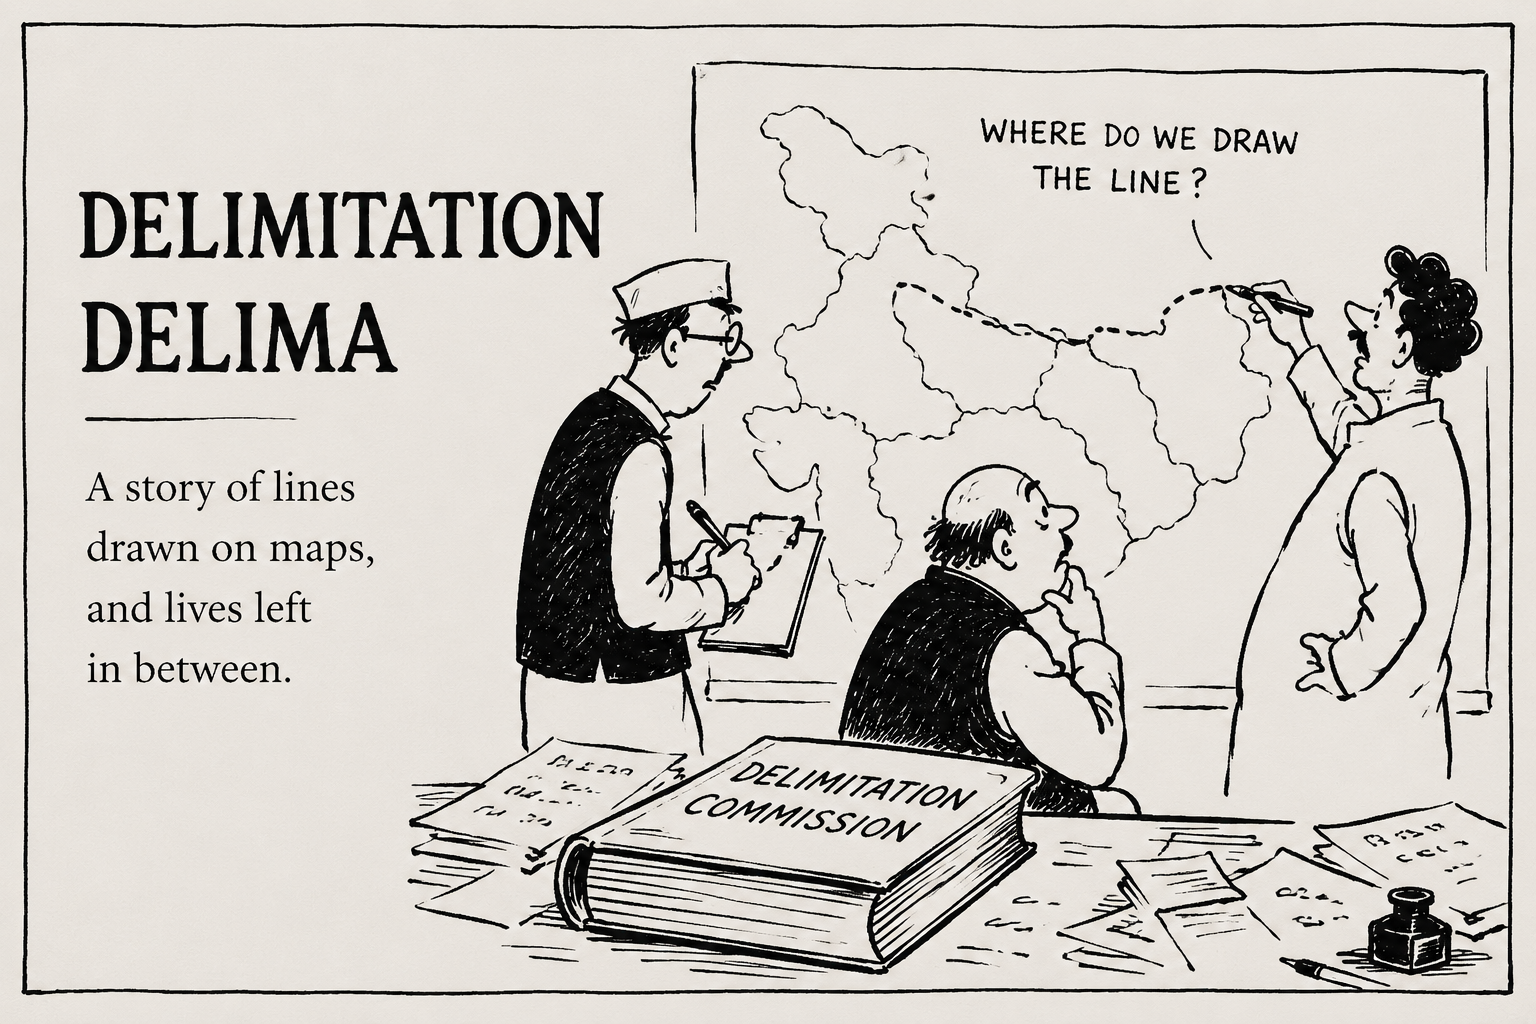
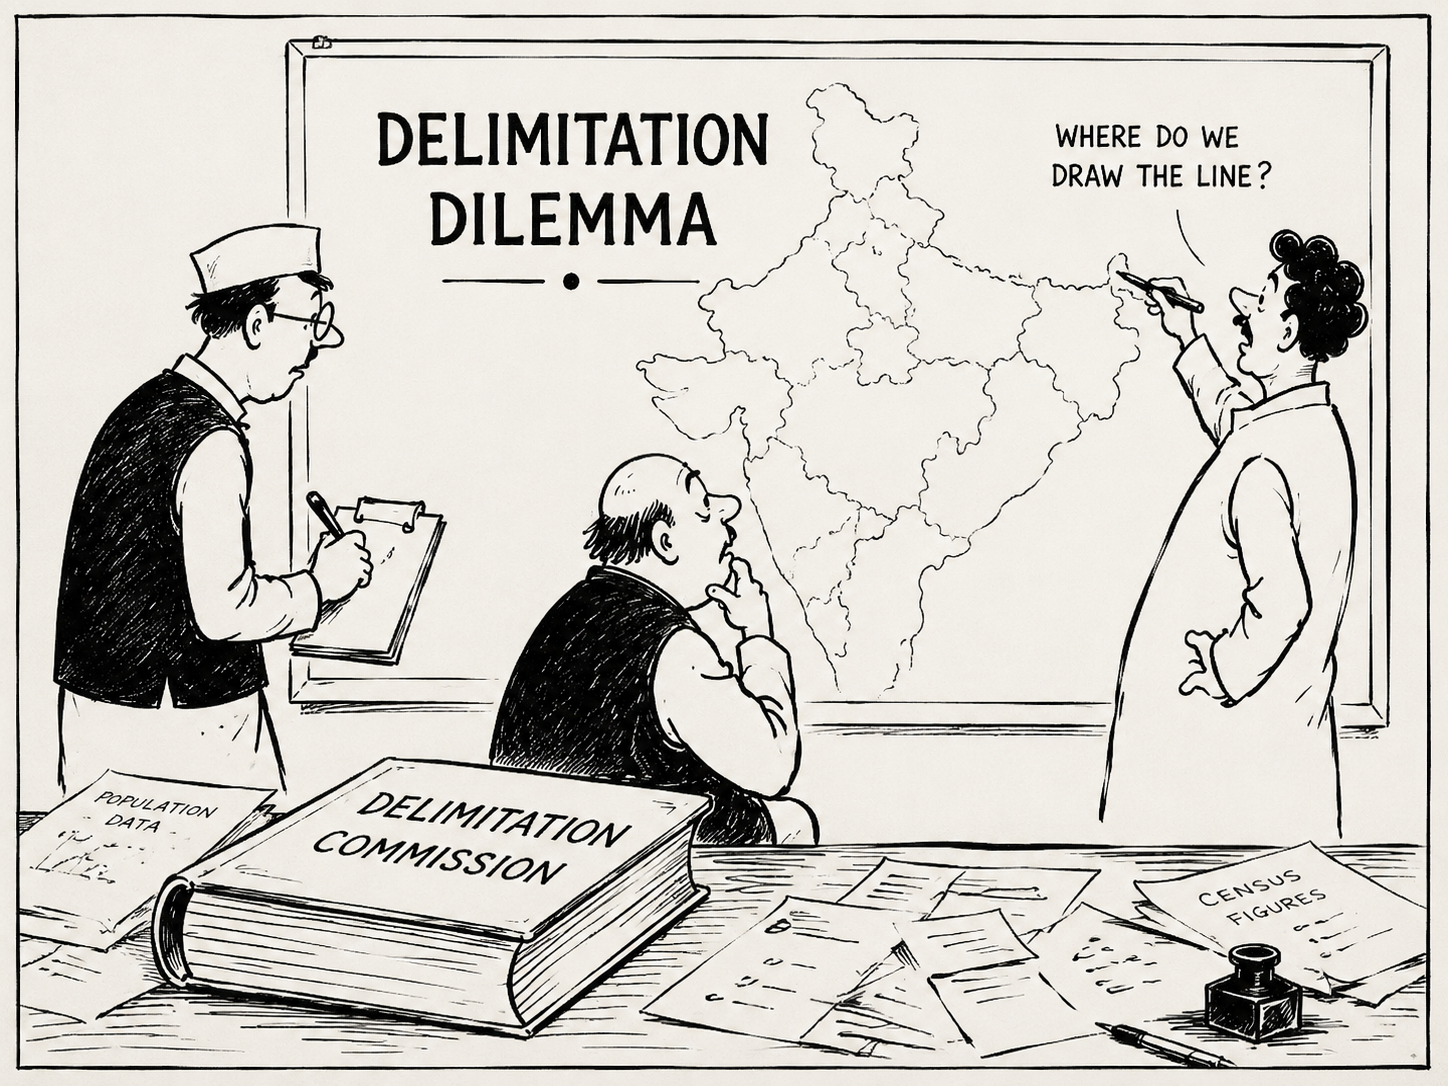
Fix image sizing and delimitation chart layout

diff --git a/src/routes/+page.svelte b/src/routes/+page.svelte
@@ -444,7 +444,8 @@
         width: 100%;
         aspect-ratio: 1408 / 1024;
         background-color: #f0ede6;
-        background-size: cover;
+        background-size: contain;
+        background-repeat: no-repeat;
         background-position: center;
         margin-bottom: 1.5rem;
         border-radius: 4px;

diff --git a/src/lib/delimitation.js b/src/lib/delimitation.js
@@ -30,7 +30,7 @@ var chartLayer;
 var chartNodes;
 var header;
 var yScale, barScale;
-var col1 = width * 0.38, col2 = width * 0.55, col3 = width * 0.70, col4 = width * 0.85;
+var col1 = width * 0.38, col2 = width * 0.50, col3 = width * 0.62, col4 = width * 0.82;
 
 var currentColorMetric = "Default";
 

diff --git a/static/static/js/d3.geo.projection.min.js b/static/static/js/d3.geo.projection.min.js
@@ -1,0 +1,2 @@
+!function(){function t(t,a){return{type:"Feature",id:t.id,properties:t.properties,geometry:n(t.geometry,a)}}function n(t,a){if(!t)return null;if("GeometryCollection"===t.type)return{type:"GeometryCollection",geometries:object.geometries.map(function(t){return n(t,a)})};if(!la.hasOwnProperty(t.type))return null;var r=la[t.type];return d3.geo.stream(t,a(r)),r.result()}function a(){}function r(t){if((n=t.length)<4)return!1;for(var n,a=0,r=t[n-1][1]*t[0][0]-t[n-1][0]*t[0][1];++a<n;)r+=t[a-1][1]*t[a][0]-t[a-1][0]*t[a][1];return 0>=r}function e(t,n){for(var a=n[0],r=n[1],e=!1,o=0,i=t.length,h=i-1;i>o;h=o++){var u=t[o],M=u[0],s=u[1],c=t[h],f=c[0],v=c[1];s>r^v>r&&(f-M)*(r-s)/(v-s)+M>a&&(e=!e)}return e}function o(t){return t?t/Math.sin(t):1}function i(t){return t>0?1:0>t?-1:0}function h(t){return t>1?pa:-1>t?-pa:Math.asin(t)}function u(t){return t>1?0:-1>t?ba:Math.acos(t)}function M(t){return t>0?Math.sqrt(t):0}function s(t){function n(t,n){var a=Math.cos(t),e=Math.cos(n),o=Math.sin(n),i=e*a,h=-((1-i?Math.log(.5*(1+i))/(1-i):-.5)+r/(1+i));return[h*e*Math.sin(t),h*o]}var a=Math.tan(.5*t),r=2*Math.log(Math.cos(.5*t))/(a*a);return n.invert=function(n,a){var e,o=Math.sqrt(n*n+a*a),i=t*-.5,u=50;if(!o)return[0,0];do{var M=.5*i,s=Math.cos(M),c=Math.sin(M),f=Math.tan(M),v=Math.log(1/s);i-=e=(2/f*v-r*f-o)/(-v/(c*c)+1-r/(2*s*s))}while(Math.abs(e)>ga&&--u>0);var l=Math.sin(i);return[Math.atan2(n*l,o*Math.cos(i)),h(a*l/o)]},n}function c(){var t=pa,n=Sa(s),a=n(t);return a.radius=function(a){return arguments.length?n(t=a*ba/180):180*(t/ba)},a}function f(t,n){var a=Math.cos(n),r=o(u(a*Math.cos(t/=2)));return[2*a*Math.sin(t)*r,Math.sin(n)*r]}function v(t){function n(t,n){var h=Math.cos(n),u=Math.cos(t/=2);return[(1+h)*Math.sin(t),(e*n>-Math.atan2(u,o)-.001?0:10*-e)+i+Math.sin(n)*r-(1+h)*a*u]}var a=Math.sin(t),r=Math.cos(t),e=t>0?1:-1,o=Math.tan(e*t),i=(1+a-r)/2;return n.invert=function(t,n){var h=0,u=0,M=50;do{var s=Math.cos(h),c=Math.sin(h),f=Math.cos(u),v=Math.sin(u),l=1+f,g=l*c-t,d=i+v*r-l*a*s-n,b=.5*l*s,p=-c*v,w=.5*a*l*c,q=r*f+a*s*v,m=p*w-q*b,y=.5*(d*p-g*q)/m,S=(g*w-d*b)/m;h-=y,u-=S}while((Math.abs(y)>ga||Math.abs(S)>ga)&&--M>0);return e*u>-Math.atan2(Math.cos(h),o)-.001?[2*h,u]:null},n}function l(){var t=ba/9,n=t>0?1:-1,a=Math.tan(n*t),r=Sa(v),e=r(t),o=e.stream;return e.parallel=function(e){return arguments.length?(a=Math.tan((n=(t=e*ba/180)>0?1:-1)*t),r(t)):180*(t/ba)},e.stream=function(r){var i=e.rotate(),h=o(r),u=(e.rotate([0,0]),o(r));return e.rotate(i),h.sphere=function(){u.polygonStart(),u.lineStart();for(var r=-180*n;180>n*r;r+=90*n)u.point(r,90*n);for(;n*(r-=t)>=-180;)u.point(r,n*-Math.atan2(Math.cos(r*qa/2),a)*ma);u.lineEnd(),u.polygonEnd()},h},e}function g(t){return t=Math.exp(2*t),(t-1)/(t+1)}function d(t){return.5*(Math.exp(t)-Math.exp(-t))}function b(t){return.5*(Math.exp(t)+Math.exp(-t))}function p(t){return Math.log(t+M(t*t+1))}function w(t){return Math.log(t+M(t*t-1))}function q(t,n){var a=Math.tan(n/2),r=M(1-a*a),e=1+r*Math.cos(t/=2),o=Math.sin(t)*r/e,i=a/e,h=o*o,u=i*i;return[4/3*o*(3+h-3*u),4/3*i*(3+3*h-u)]}function m(t,n){var a=Math.abs(n);return ba/4>a?[t,Math.log(Math.tan(ba/4+n/2))]:[t*Math.cos(a)*(2*Math.SQRT2-1/Math.sin(a)),i(n)*(2*Math.SQRT2*(a-ba/4)-Math.log(Math.tan(a/2)))]}function y(t){function n(t,n){var r=Ra(t,n);if(Math.abs(t)>pa){var e=Math.atan2(r[1],r[0]),o=Math.sqrt(r[0]*r[0]+r[1]*r[1]),i=a*Math.round((e-pa)/a)+pa,u=Math.atan2(Math.sin(e-=i),2-Math.cos(e));e=i+h(ba/o*Math.sin(u))-u,r[0]=o*Math.cos(e),r[1]=o*Math.sin(e)}return r}var a=2*ba/t;return n.invert=function(t,n){var r=Math.sqrt(t*t+n*n);if(r>pa){var e=Math.atan2(n,t),o=a*Math.round((e-pa)/a)+pa,i=e>o?-1:1,h=r*Math.cos(o-e),u=1/Math.tan(i*Math.acos((h-ba)/Math.sqrt(ba*(ba-2*h)+r*r)));e=o+2*Math.atan((u+i*Math.sqrt(u*u-3))/3),t=r*Math.cos(e),n=r*Math.sin(e)}return Ra.invert(t,n)},n}function S(){var t=5,n=Sa(y),a=n(t),r=a.stream,e=.01,o=-Math.cos(e*qa),i=Math.sin(e*qa);return a.lobes=function(a){return arguments.length?n(t=+a):t},a.stream=function(n){var u=a.rotate(),M=r(n),s=(a.rotate([0,0]),r(n));return a.rotate(u),M.sphere=function(){s.polygonStart(),s.lineStart();for(var n=0,a=360/t,r=2*ba/t,u=90-180/t,M=pa;t>n;++n,u-=a,M-=r)s.point(Math.atan2(i*Math.cos(M),o)*ma,h(i*Math.sin(M))*ma),-90>u?(s.point(-90,-180-u-e),s.point(-90,-180-u+e)):(s.point(90,u+e),s.point(90,u-e));s.lineEnd(),s.polygonEnd()},M},a}function Q(t){return function(n){var a,r=t*Math.sin(n),e=30;do n-=a=(n+Math.sin(n)-r)/(1+Math.cos(n));while(Math.abs(a)>ga&&--e>0);return n/2}}function R(t,n,a){function r(a,r){return[t*a*Math.cos(r=e(r)),n*Math.sin(r)]}var e=Q(a);return r.invert=function(r,e){var o=h(e/n);return[r/(t*Math.cos(o)),h((2*o+Math.sin(2*o))/a)]},r}function T(t,n){var a=2.00276,r=Ta(n);return[a*t/(1/Math.cos(n)[phone redacted]/Math.cos(r)),(n+Math.SQRT2*Math.sin(r))/a]}function x(t){var n=0,a=Sa(t),r=a(n);return r.parallel=function(t){return arguments.length?a(n=t*ba/180):180*(n/ba)},r}function E(t,n){return[t*Math.cos(n),n]}function k(t){function n(n,r){var e=a+t-r,o=e?n*Math.cos(r)/e:e;return[e*Math.sin(o),a-e*Math.cos(o)]}if(!t)return E;var a=1/Math.tan(t);return n.invert=function(n,r){var e=Math.sqrt(n*n+(r=a-r)*r),o=a+t-e;return[e/Math.cos(o)*Math.atan2(n,r),o]},n}function P(t){function n(n,a){for(var r=Math.sin(a),e=Math.cos(a),o=new Array(3),M=0;3>M;++M){var s=t[M];if(o[M]=z(a-s[1],s[3],s[2],e,r,n-s[0]),!o[M][0])return s.point;o[M][1]=F(o[M][1]-s.v[1])}for(var c=u.slice(),M=0;3>M;++M){var f=2==M?0:M+1,v=B(t[M].v[0],o[M][0],o[f][0]);o[M][1]<0&&(v=-v),M?1==M?(v=i-v,c[0]-=o[M][0]*Math.cos(v),c[1]-=o[M][0]*Math.sin(v)):(v=h-v,c[0]+=o[M][0]*Math.cos(v),c[1]+=o[M][0]*Math.sin(v)):(c[0]+=o[M][0]*Math.cos(v),c[1]-=o[M][0]*Math.sin(v))}return c[0]/=3,c[1]/=3,c}t=t.map(function(t){return[t[0],t[1],Math.sin(t[1]),Math.cos(t[1])]});for(var a,r=t[2],e=0;3>e;++e,r=a)a=t[e],r.v=z(a[1]-r[1],r[3],r[2],a[3],a[2],a[0]-r[0]),r.point=[0,0];var o=B(t[0].v[0],t[2].v[0],t[1].v[0]),i=B(t[0].v[0],t[1].v[0],t[2].v[0]),h=ba-o;t[2].point[1]=0,t[0].point[0]=-(t[1].point[0]=.5*t[0].v[0]);var u=[t[2].point[0]=t[0].point[0]+t[2].v[0]*Math.cos(o),2*(t[0].point[1]=t[1].point[1]=t[2].v[0]*Math.sin(o))];return n}function _(){var t=[[0,0],[0,0],[0,0]],n=Sa(P),a=n(t),r=a.rotate;return delete a.rotate,a.points=function(e){if(!arguments.length)return t;t=e;var o=d3.geo.centroid({type:"MultiPoint",coordinates:t}),i=[-o[0],-o[1]];return r.call(a,i),n(t.map(d3.geo.rotation(i)).map(A))},a.points([[-150,55],[-35,55],[-92.5,10]])}function z(t,n,a,r,e,o){var i,M=Math.cos(o);if(Math.abs(t)>1||Math.abs(o)>1)i=u(a*e+n*r*M);else{var s=Math.sin(.5*t),c=Math.sin(.5*o);i=2*h(Math.sqrt(s*s+n*r*c*c))}return Math.abs(i)>ga?[i,Math.atan2(r*Math.sin(o),n*e-a*r*M)]:[0,0]}function B(t,n,a){return u(.5*(t*t+n*n-a*a)/(t*n))}function F(t){return t-2*ba*Math.floor((t+ba)/(2*ba))}function A(t){return[t[0]*qa,t[1]*qa]}function G(t,n){var a=M(1-Math.sin(n));return[2/wa*t*a,wa*(1-a)]}function j(t){function n(t,n){return[t,(t?t/Math.sin(t):1)*(Math.sin(n)*Math.cos(t)-a*Math.cos(n))]}var a=Math.tan(t);return n.invert=a?function(t,n){t&&(n*=Math.sin(t)/t);var r=Math.cos(t);return[t,2*Math.atan2(Math.sqrt(r*r+a*a-n*n)-r,a-n)]}:function(t,n){return[t,h(t?n*Math.tan(t)/t:n)]},n}function C(t,n){var a=Math.sqrt(3);return[a*t*(2*Math.cos(2*n/3)-1)/wa,a*wa*Math.sin(n/3)]}function D(t){function n(t,n){return[t*a,Math.sin(n)/a]}var a=Math.cos(t);return n.invert=function(t,n){return[t/a,h(n*a)]},n}function L(t){function n(t,n){return[t*a,(1+a)*Math.tan(.5*n)]}var a=Math.cos(t);return n.invert=function(t,n){return[t/a,2*Math.atan(n/(1+a))]},n}function O(t,n){var a=Math.sqrt(8/(3*ba));return[a*t*(1-Math.abs(n)/ba),a*n]}function H(t,n){var a=Math.sqrt(4-3*Math.sin(Math.abs(n)));return[2/Math.sqrt(6*ba)*t*a,i(n)*Math.sqrt(2*ba/3)*(2-a)]}function I(t,n){var a=Math.sqrt(ba*(4+ba));return[2/a*t*(1+Math.sqrt(1-4*n*n/(ba*ba))),4/a*n]}function J(t,n){var a=(2+pa)*Math.sin(n);n/=2;for(var r=0,e=1/0;10>r&&Math.abs(e)>ga;r++){var o=Math.cos(n);n-=e=(n+Math.sin(n)*(o+2)-a)/(2*o*(1+o))}return[2/Math.sqrt(ba*(4+ba))*t*(1+Math.cos(n)),2*Math.sqrt(ba/(4+ba))*Math.sin(n)]}function K(t,n){return[t*(1+Math.cos(n))/Math.sqrt(2+ba),2*n/Math.sqrt(2+ba)]}function N(t,n){for(var a=(1+pa)*Math.sin(n),r=0,e=1/0;10>r&&Math.abs(e)>ga;r++)n-=e=(n+Math.sin(n)-a)/(1+Math.cos(n));return a=Math.sqrt(2+ba),[t*(1+Math.cos(n))/a,2*n/a]}function U(t,n){var a=Math.sin(t/=2),r=Math.cos(t),e=Math.sqrt(Math.cos(n)),o=Math.cos(n/=2),i=Math.sin(n)/(o+Math.SQRT2*r*e),h=Math.sqrt(2/(1+i*i)),u=Math.sqrt((Math.SQRT2*o+(r+a)*e)/(Math.SQRT2*o+(r-a)*e));return[ka*(h*(u-1/u)-2*Math.log(u)),ka*(h*i*(u+1/u)-2*Math.atan(i))]}function V(t,n){var a=Math.tan(n/2);return[t*Pa*M(1-a*a),(1+Pa)*a]}function W(t,n){var a=n/2,r=Math.cos(a);return[2*t/wa*Math.cos(n)*r*r,wa*Math.tan(a)]}function X(t,n){function a(n,a){var o=_a(n,a),i=o[0],h=o[1],u=i*i+h*h;if(u>e){var M=Math.sqrt(u),s=Math.atan2(h,i),c=r*Math.round(s/r),f=s-c,v=t*Math.cos(f),l=(t*Math.sin(f)-f*Math.sin(v))/(pa-v),g=Y(f,l),d=(ba-t)/$(g,v,ba);i=M;var b,p=50;do i-=b=(t+$(g,v,i)*d-M)/(g(i)*d);while(Math.abs(b)>ga&&--p>0);h=f*Math.sin(i),pa>i&&(h-=l*(i-pa));var w=Math.sin(c),q=Math.cos(c);o[0]=i*q-h*w,o[1]=i*w+h*q}return o}var r=2*ba/n,e=t*t;return a.invert=function(n,a){var o=n*n+a*a;if(o>e){var i=Math.sqrt(o),h=Math.atan2(a,n),u=r*Math.round(h/r),M=h-u,n=i*Math.cos(M);a=i*Math.sin(M);for(var s=n-pa,c=Math.sin(n),f=a/c,v=pa>n?1/0:0,l=10;;){var g=t*Math.sin(f),d=t*Math.cos(f),b=Math.sin(d),p=pa-d,w=(g-f*b)/p,q=Y(f,w);if(Math.abs(v)<da||!--l)break;f-=v=(f*c-w*s-a)/(c-2*s*(p*(d+f*g*Math.cos(d)-b)-g*(g-f*b))/(p*p))}i=t+$(q,d,n)*(ba-t)/$(q,d,ba),h=u+f,n=i*Math.cos(h),a=i*Math.sin(h)}return _a.invert(n,a)},a}function Y(t,n){return function(a){var r=t*Math.cos(a);return pa>a&&(r-=n),Math.sqrt(1+r*r)}}function Z(){var t=6,n=30*qa,a=Math.cos(n),r=Math.sin(n),e=Sa(X),o=e(n,t),i=o.stream,h=.01,u=-Math.cos(h*qa),M=Math.sin(h*qa);return o.radius=function(o){return arguments.length?(a=Math.cos(n=o*qa),r=Math.sin(n),e(n,t)):n*ma},o.lobes=function(a){return arguments.length?e(n,t=+a):t},o.stream=function(n){var e=o.rotate(),h=i(n),s=(o.rotate([0,0]),i(n));return o.rotate(e),h.sphere=function(){s.polygonStart(),s.lineStart();for(var n=0,e=2*ba/t,o=0;t>n;++n,o-=e)s.point(Math.atan2(M*Math.cos(o),u)*ma,Math.asin(M*Math.sin(o))*ma),s.point(Math.atan2(r*Math.cos(o-e/2),a)*ma,Math.asin(r*Math.sin(o-e/2))*ma);s.lineEnd(),s.polygonEnd()},h},o}function $(t,n,a){for(var r=50,e=(a-n)/r,o=t(n)+t(a),i=1,h=n;r>i;++i)o+=2*t(h+=e);return.5*o*e}function tn(t,n,a,r,e,o,i,h){function u(u,M){if(!M)return[t*u/ba,0];var s=M*M,c=t+s*(n+s*(a+s*r)),f=M*(e-1+s*(o-h+s*i)),v=(c*c+f*f)/(2*f),l=u*Math.asin(c/v)/ba;return[v*Math.sin(l),M*(1+s*h)+v*(1-Math.cos(l))]}return arguments.length<8&&(h=0),u.invert=function(u,s){var c,f,v=ba*u/t,l=s,g=50;do{var d=l*l,b=t+d*(n+d*(a+d*r)),p=l*(e-1+d*(o-h+d*i)),w=b*b+p*p,q=2*p,m=w/q,y=m*m,S=Math.asin(b/m)/ba,Q=v*S;if(xB2=b*b,dxBdφ=(2*n+d*(4*a+6*d*r))*l,dyBdφ=e+d*(3*o+5*d*i),dpdφ=2*(b*dxBdφ+p*(dyBdφ-1)),dqdφ=2*(dyBdφ-1),dmdφ=(dpdφ*q-w*dqdφ)/(q*q),cosα=Math.cos(Q),sinα=Math.sin(Q),mcosα=m*cosα,msinα=m*sinα,dαdφ=v/ba*(1/M(1-xB2/y))*(dxBdφ*m-b*dmdφ)/y,fx=msinα-u,fy=l*(1+d*h)+m-mcosα-s,δxδφ=dmdφ*sinα+mcosα*dαdφ,δxδλ=mcosα*S,δyδφ=1+dmdφ-(dmdφ*cosα-msinα*dαdφ),δyδλ=msinα*S,denominator=δxδφ*δyδλ-δyδφ*δxδλ,!denominator)break;v-=c=(fy*δxδφ-fx*δyδφ)/denominator,l-=f=(fx*δyδλ-fy*δxδλ)/denominator}while((Math.abs(c)>ga||Math.abs(f)>ga)&&--g>0);return[v,l]},u}function nn(t,n){var a=t*t,r=n*n;return[t*(1-.162388*r)*(.87-952426e-9*a*a),n*(1+r/12)]}function an(t){function n(){var t=!1,n=Sa(a),r=n(t);return r.quincuncial=function(a){return arguments.length?n(t=!!a):t},r}function a(n){var a=n?function(n,a){var e=Math.abs(n)<pa,o=t(e?n:n>0?n-ba:n+ba,a),h=(o[0]-o[1])*Math.SQRT1_2,u=(o[0]+o[1])*Math.SQRT1_2;if(e)return[h,u];var M=r*Math.SQRT1_2,s=h>0^u>0?-1:1;return[s*h-i(u)*M,s*u-i(h)*M]}:function(n,a){var e=n>0?-.5:.5,o=t(n+e*ba,a);return o[0]-=e*r,o};return t.invert&&(a.invert=n?function(n,a){var e=(n+a)*Math.SQRT1_2,o=(a-n)*Math.SQRT1_2,i=Math.abs(e)<.5*r&&Math.abs(o)<.5*r;if(!i){var h=r*Math.SQRT1_2,u=e>0^o>0?-1:1,M=-u*(n+(o>0?1:-1)*h),s=-u*(a+(e>0?1:-1)*h);e=(-M-s)*Math.SQRT1_2,o=(M-s)*Math.SQRT1_2}var c=t.invert(e,o);return i||(c[0]+=e>0?ba:-ba),c}:function(n,a){var e=n>0?-.5:.5,o=t.invert(n+e*r,a),i=o[0]-e*ba;return-ba>i?i+=2*ba:i>ba&&(i-=2*ba),o[0]=i,o}),a}var r=t(pa,0)[0]-t(-pa,0)[0];return n.raw=a,n}function rn(t,n){var a=i(t),r=i(n),e=Math.cos(n),o=Math.cos(t)*e,u=Math.sin(t)*e,M=Math.sin(r*n);t=Math.abs(Math.atan2(u,M)),n=h(o),Math.abs(t-pa)>ga&&(t%=pa);var s=en(t>ba/4?pa-t:t,n);return t>ba/4&&(M=s[0],s[0]=-s[1],s[1]=-M),s[0]*=a,s[1]*=-r,s}function en(t,n){if(n===pa)return[0,0];var a=Math.sin(n),r=a*a,e=r*r,o=1+e,i=1+3*e,u=1-e,s=h(1/Math.sqrt(o)),c=u+r*o*s,f=(1-a)/c,v=Math.sqrt(f),l=f*o,g=Math.sqrt(l),d=v*u;if(0===t)return[0,-(d+r*g)];var b=Math.cos(n),p=1/b,w=2*a*b,q=(-3*r+s*i)*w,m=(-c*b-(1-a)*q)/(c*c),y=.5*m/v,S=u*y-2*r*v*w,Q=r*o*m+f*i*w,R=-p*w,T=-p*Q,x=-2*p*S,E=4*t/ba;if(t>.222*ba||ba/4>n&&t>.175*ba){var k=(d+r*M(l*(1+e)-d*d))/(1+e);if(t>ba/4)return[k,k];var P=k,_=.5*k,z=50;k=.5*(_+P);do{var B=Math.sqrt(l-k*k),F=k*(x+R*B)+T*h(k/g)-E;if(!F)break;0>F?_=k:P=k,k=.5*(_+P)}while(Math.abs(P-_)>ga&&--z>0)}else{var A,k=ga,z=25;do{var G=k*k,B=M(l-G),j=x+R*B,F=k*j+T*h(k/g)-E,C=j+(T-R*G)/B;k-=A=B?F/C:0}while(Math.abs(A)>ga&&--z>0)}return[k,-d-r*M(l-k*k)]}function on(t,n){for(var a=0,r=1,e=.5,o=50;;){var i=e*e,h=Math.sqrt(e),u=Math.asin(1/Math.sqrt(1+i)),M=1-i+e*(1+i)*u,s=(1-h)/M,c=Math.sqrt(s),f=s*(1+i),v=c*(1-i),l=f-t*t,g=Math.sqrt(l),d=n+v+e*g;if(Math.abs(r-a)<da||0===--o||0===d)break;d>0?a=e:r=e,e=.5*(a+r)}if(!o)return null;var b=Math.asin(h),p=Math.cos(b),w=1/p,q=2*h*p,m=(-3*e+u*(1+3*i))*q,y=(-M*p-(1-h)*m)/(M*M),S=.5*y/c,Q=(1-i)*S-2*e*c*q,R=-2*w*Q,T=-w*q,x=-w*(e*(1+i)*y+s*(1+3*i)*q);return[ba/4*(t*(R+T*g)+x*Math.asin(t/Math.sqrt(f))),b]}function hn(t,n,a){if(!t){var r=un(n,1-a);return[[0,r[0]/r[1]],[1/r[1],0],[r[2]/r[1],0]]}var e=un(t,a);if(!n)return[[e[0],0],[e[1],0],[e[2],0]];var r=un(n,1-a),o=r[1]*r[1]+a*e[0]*e[0]*r[0]*r[0];return[[e[0]*r[2]/o,e[1]*e[2]*r[0]*r[1]/o],[e[1]*r[1]/o,-e[0]*e[2]*r[0]*r[2]/o],[e[2]*r[1]*r[2]/o,-a*e[0]*e[1]*r[0]/o]]}function un(t,n){var a,r,e,o,i;if(ga>n)return o=Math.sin(t),r=Math.cos(t),a=.25*n*(t-o*r),[o-a*r,r+a*o,1-.5*n*o*o,t-a];if(n>=1-ga)return a=.25*(1-n),r=b(t),o=g(t),e=1/r,i=r*d(t),[o+a*(i-t)/(r*r),e-a*o*e*(i-t),e+a*o*e*(i+t),2*Math.atan(Math.exp(t))-pa+a*(i-t)/r];var u=[1,0,0,0,0,0,0,0,0],s=[Math.sqrt(n),0,0,0,0,0,0,0,0],c=0;for(r=Math.sqrt(1-n),i=1;Math.abs(s[c]/u[c])>ga&&8>c;)a=u[c++],s[c]=.5*(a-r),u[c]=.5*(a+r),r=M(a*r),i*=2;e=i*u[c]*t;do o=s[c]*Math.sin(r=e)/u[c],e=.5*(h(o)+e);while(--c);return[Math.sin(e),o=Math.cos(e),o/Math.cos(e-r),e]}function Mn(t,n,a){var r=Math.abs(t),e=Math.abs(n),o=d(e);if(r){var h=1/Math.sin(r),u=1/(Math.tan(r)*Math.tan(r)),s=-(u+a*o*o*h*h-1+a),c=(a-1)*u,f=.5*(-s+Math.sqrt(s*s-4*c));return[sn(Math.atan(1/Math.sqrt(f)),a)*i(t),sn(Math.atan(M((f/u-1)/a)),1-a)*i(n)]}return[0,sn(Math.atan(o),1-a)*i(n)]}function sn(t,n){if(!n)return t;if(1===n)return Math.log(Math.tan(t/2+ba/4));for(var a=1,r=Math.sqrt(1-n),e=Math.sqrt(n),o=0;Math.abs(e)>ga;o++){if(t%ba){var i=Math.atan(r*Math.tan(t)/a);0>i&&(i+=ba),t+=i+~~(t/ba)*ba}else t+=t;e=(a+r)/2,r=Math.sqrt(a*r),e=((a=e)-r)/2}return t/(Math.pow(2,o)*a)}function cn(t,n){var a=(Math.SQRT2-1)/(Math.SQRT2+1),r=Math.sqrt(1-a*a),e=sn(pa,r*r),o=-1,i=Math.log(Math.tan(ba/4+Math.abs(n)/2)),h=Math.exp(o*i)/Math.sqrt(a),u=fn(h*Math.cos(o*t),h*Math.sin(o*t)),M=Mn(u[0],u[1],r*r);return[-M[1],(n>=0?1:-1)*(.5*e-M[0])]}function fn(t,n){var a=t*t,r=n+1,e=1-a-n*n;return[.5*((t>=0?pa:-pa)-Math.atan2(e,2*t)),-.25*Math.log(e*e+4*a)+.5*Math.log(r*r+a)]}function vn(t,n){var a=n[0]*n[0]+n[1]*n[1];return[(t[0]*n[0]+t[1]*n[1])/a,(t[1]*n[0]-t[0]*n[1])/a]}function ln(t){function n(t,n){var o=e(t,n);t=o[0],n=o[1];var i=Math.sin(n),h=Math.cos(n),M=Math.cos(t),s=u(a*i+r*h*M),c=Math.sin(s),f=Math.abs(c)>ga?s/c:1;return[f*r*Math.sin(t),(Math.abs(t)>pa?f:-f)*(a*h-r*i*M)]}var a=Math.sin(t),r=Math.cos(t),e=gn(t);return e.invert=gn(-t),n.invert=function(t,n){var r=Math.sqrt(t*t+n*n),o=-Math.sin(r),i=Math.cos(r),h=r*i,u=-n*o,s=r*a,c=M(h*h+u*u-s*s),f=Math.atan2(h*s+u*c,u*s-h*c),v=(r>pa?-1:1)*Math.atan2(t*o,r*Math.cos(f)*i+n*Math.sin(f)*o);return e.invert(v,f)},n}function gn(t){var n=Math.sin(t),a=Math.cos(t);return function(t,r){var e=Math.cos(r),o=Math.cos(t)*e,i=Math.sin(t)*e,u=Math.sin(r);return[Math.atan2(i,o*a-u*n),h(u*a+o*n)]}}function dn(){var t=0,n=Sa(ln),a=n(t),r=a.rotate,e=a.stream,o=d3.geo.circle();return a.parallel=function(r){if(!arguments.length)return 180*(t/ba);var e=a.rotate();return n(t=r*ba/180).rotate(e)},a.rotate=function(n){return arguments.length?(r.call(a,[n[0],n[1]-180*(t/ba)]),o.origin([-n[0],-n[1]]),a):(n=r.call(a),n[1]+=180*(t/ba),n)},a.stream=function(t){return t=e(t),t.sphere=function(){t.polygonStart();var n,a=.01,r=o.angle(90-a)().coordinates[0],e=r.length-1,i=-1;for(t.lineStart();++i<e;)t.point((n=r[i])[0],n[1]);for(t.lineEnd(),r=o.angle(90+a)().coordinates[0],e=r.length-1,t.lineStart();--i>=0;)t.point((n=r[i])[0],n[1]);t.lineEnd(),t.polygonEnd()},t},a}function bn(t,n){function a(a,r){var e=Ga(a/n,r);return e[0]*=t,e}return arguments.length<2&&(n=t),1===n?Ga:1/0===n?wn:(a.invert=function(a,r){var e=Ga.invert(a/t,r);return e[0]*=n,e},a)}function pn(){var t=2,n=Sa(bn),a=n(t);return a.coefficient=function(a){return arguments.length?n(t=+a):t},a}function wn(t,n){return[t*Math.cos(n)/Math.cos(n/=2),2*Math.sin(n)]}function qn(t,n){for(var a,r=Math.sin(n)*(0>n?2.43763:2.67595),e=0;20>e&&(n-=a=(n+Math.sin(n)-r)/(1+Math.cos(n)),!(Math.abs(a)<ga));e++);return[.85*t*Math.cos(n*=.5),Math.sin(n)*(0>n?1.93052:1.75859)]}function mn(t){function n(n,s){var c,f=Math.abs(s);if(f>r){var v=Math.min(t-1,Math.max(0,Math.floor((n+ba)/M)));n+=ba*(t-1)/t-v*M,c=d3.geo.collignon.raw(n,f),c[0]=c[0]*e/o-e*(t-1)/(2*t)+v*e/t,c[1]=i+4*(c[1]-h)*u/e,0>s&&(c[1]=-c[1])}else c=a(n,s);return c[0]/=2,c}var a=d3.geo.cylindricalEqualArea.raw(0),r=ja*ba/180,e=2*ba,o=d3.geo.collignon.raw(ba,r)[0]-d3.geo.collignon.raw(-ba,r)[0],i=a(0,r)[1],h=d3.geo.collignon.raw(0,r)[1],u=d3.geo.collignon.raw(0,pa)[1]-h,M=2*ba/t;return n.invert=function(n,r){n*=2;var s=Math.abs(r);if(s>i){var c=Math.min(t-1,Math.max(0,Math.floor((n+ba)/M)));n=(n+ba*(t-1)/t-c*M)*o/e;var f=d3.geo.collignon.raw.invert(n,.25*(s-i)*e/u+h);return f[0]-=ba*(t-1)/t-c*M,0>r&&(f[1]=-f[1]),f}return a.invert(n,r)},n}function yn(){function t(){var t=180/n;return{type:"Polygon",coordinates:[d3.range(-180,180+t/2,t).map(function(t,n){return[t,1&n?90-1e-6:ja]}).concat(d3.range(180,-180-t/2,-t).map(function(t,n){return[t,1&n?-90+1e-6:-ja]}))]}}var n=2,a=Sa(mn),r=a(n),e=r.stream;return r.lobes=function(t){return arguments.length?a(n=+t):n},r.stream=function(n){var a=r.rotate(),o=e(n),i=(r.rotate([0,0]),e(n));return r.rotate(a),o.sphere=function(){d3.geo.stream(t(),i)},o},r}function Sn(t){function n(n,e){var h,u,f=1-Math.sin(e);if(f&&2>f){var v,l=pa-e,g=25;do{var d=Math.sin(l),b=Math.cos(l),p=o+Math.atan2(d,r-b),w=1+c-2*r*b;l-=v=(l-s*o-r*d+w*p-.5*f*a)/(2*r*d*p)}while(Math.abs(v)>da&&--g>0);h=i*Math.sqrt(w),u=n*p/ba}else h=i*(t+f),u=n*o/ba;return[h*Math.sin(u),M-h*Math.cos(u)]}var a,r=1+t,e=Math.sin(1/r),o=h(e),i=2*Math.sqrt(ba/(a=ba+4*o*r)),M=.5*i*(r+Math.sqrt(t*(2+t))),s=t*t,c=r*r;return n.invert=function(t,n){var e=t*t+(n-=M)*n,f=(1+c-e/(i*i))/(2*r),v=u(f),l=Math.sin(v),g=o+Math.atan2(l,r-f);return[h(t/Math.sqrt(e))*ba/g,h(1-2*(v-s*o-r*l+(1+c-2*r*f)*g)/a)]},n}function Qn(){var t=1,n=Sa(Sn),a=n(t);return a.ratio=function(a){return arguments.length?n(t=+a):t},a}function Rn(t,n){return n>-Ca?(t=xa(t,n),t[1]+=Da,t):E(t,n)}function Tn(t,n){return Math.abs(n)>Ca?(t=xa(t,n),t[1]-=n>0?Da:-Da,t):E(t,n)}function xn(t,n){return[3*t/(2*ba)*Math.sqrt(ba*ba/3-n*n),n]}function En(t){function n(n,a){if(Math.abs(Math.abs(a)-pa)<ga)return[0,0>a?-2:2];var r=Math.sin(a),e=Math.pow((1+r)/(1-r),t/2),o=.5*(e+1/e)+Math.cos(n*=t);return[2*Math.sin(n)/o,(e-1/e)/o]}return n.invert=function(n,a){var r=Math.abs(a);if(Math.abs(r-2)<ga)return n?null:[0,i(a)*pa];if(r>2)return null;n/=2,a/=2;var e=n*n,o=a*a,u=2*a/(1+e+o);return u=Math.pow((1+u)/(1-u),1/t),[Math.atan2(2*n,1-e-o)/t,h((u-1)/(u+1))]},n}function kn(){var t=.5,n=Sa(En),a=n(t);return a.spacing=function(a){return arguments.length?n(t=+a):t},a}function Pn(t,n){return[t*(1+Math.sqrt(Math.cos(n)))/2,n/(Math.cos(n/2)*Math.cos(t/6))]}function _n(t,n){var a=t*t,r=n*n;return[t*(.975534+r*(-.119161+a*-.[phone redacted]+r*-.[phone redacted])),n*(1.00384+a*(.[phone redacted]+r*-.02855+199025e-9*a)+r*(.[phone redacted]+r*-.[phone redacted]))]}function zn(t,n){return[Math.sin(t)/Math.cos(n),Math.tan(n)*Math.cos(t)]}function Bn(t){function n(n,e){var o=e-t,i=Math.abs(o)<ga?n*a:Math.abs(i=ba/4+e/2)<ga||Math.abs(Math.abs(i)-pa)<ga?0:n*o/Math.log(Math.tan(i)/r);return[i,o]}var a=Math.cos(t),r=Math.tan(ba/4+t/2);return n.invert=function(n,e){var o,i=e+t;return[Math.abs(e)<ga?n/a:Math.abs(o=ba/4+i/2)<ga||Math.abs(Math.abs(o)-pa)<ga?0:n*Math.log(Math.tan(o)/r)/e,i]},n}function Fn(t,n){return[t,1.25*Math.log(Math.tan(ba/4+.4*n))]}function An(t){function n(n,r){for(var e,o=Math.cos(r),i=2/(1+o*Math.cos(n)),h=i*o*Math.sin(n),u=i*Math.sin(r),M=a,s=t[M],c=s[0],f=s[1];--M>=0;)s=t[M],c=s[0]+h*(e=c)-u*f,f=s[1]+h*f+u*e;return c=h*(e=c)-u*f,f=h*f+u*e,[c,f]}var a=t.length-1;return n.invert=function(n,r){var e=20,o=n,i=r;do{for(var u,M=a,s=t[M],c=s[0],f=s[1],v=0,l=0;--M>=0;)s=t[M],v=c+o*(u=v)-i*l,l=f+o*l+i*u,c=s[0]+o*(u=c)-i*f,f=s[1]+o*f+i*u;v=c+o*(u=v)-i*l,l=f+o*l+i*u,c=o*(u=c)-i*f-n,f=o*f+i*u-r;var g,d,b=v*v+l*l;o-=g=(c*v+f*l)/b,i-=d=(f*v-c*l)/b}while(Math.abs(g)+Math.abs(d)>ga*ga&&--e>0);if(e){var p=Math.sqrt(o*o+i*i),w=2*Math.atan(.5*p),q=Math.sin(w);return[Math.atan2(o*q,p*Math.cos(w)),p?h(i*q/p):0]}},n}function Gn(){var t=La.miller,n=Sa(An),a=n(t);return a.coefficients=function(a){return arguments.length?n(t="string"==typeof a?La[a]:a):t},a}function jn(t,n){var a=Math.sqrt(6),r=Math.sqrt(7),e=Math.asin(7*Math.sin(n)/(3*a));return[a*t*(2*Math.cos(2*e/3)-1)/r,9*Math.sin(e/3)/r]}function Cn(t,n){for(var a,r=(1+Math.SQRT1_2)*Math.sin(n),e=n,o=0;25>o&&(e-=a=(Math.sin(e/2)+Math.sin(e)-r)/(.5*Math.cos(e/2)+Math.cos(e)),!(Math.abs(a)<ga));o++);return[t*(1+2*Math.cos(e)/Math.cos(e/2))/(3*Math.SQRT2),2*Math.sqrt(3)*Math.sin(e/2)/Math.sqrt(2+Math.SQRT2)]}function Dn(t,n){for(var a,r=Math.sqrt(6/(4+ba)),e=(1+ba/4)*Math.sin(n),o=n/2,i=0;25>i&&(o-=a=(o/2+Math.sin(o)-e)/(.5+Math.cos(o)),!(Math.abs(a)<ga));i++);return[r*(.5+Math.cos(o))*t/1.5,r*o]}function Ln(t,n){var a=n*n,r=a*a;return[t*(.8707-.131979*a+r*(-.013791+r*(.003971*a-.001529*r))),n*([phone redacted]+a*(.015085+r*(-.044475+.028874*a-.005916*r)))]}function On(t,n){return[t*(1+Math.cos(n))/2,2*(n-Math.tan(n/2))]}function Hn(t,n){var a=n*n;return[t,n*(Oa+a*a*(Ha+a*(Ia+Ja*a)))]}function In(t,n){if(Math.abs(n)<ga)return[t,0];var a=Math.tan(n),r=t*Math.sin(n);return[Math.sin(r)/a,n+(1-Math.cos(r))/a]}function Jn(t){function n(n,r){var e=a?Math.tan(n*a/2)/a:n/2;if(!r)return[2*e,-t];var o=2*Math.atan(e*Math.sin(r)),i=1/Math.tan(r);return[Math.sin(o)*i,r+(1-Math.cos(o))*i-t]}var a=Math.sin(t);return n.invert=function(n,r){if(Math.abs(r+=t)<ga)return[a?2*Math.atan(a*n/2)/a:n,0];var e,o=n*n+r*r,i=0,M=10;do{var s=Math.tan(i),c=1/Math.cos(i),f=o-2*r*i+i*i;i-=e=(s*f+2*(i-r))/(2+f*c*c+2*(i-r)*s)}while(Math.abs(e)>ga&&--M>0);var v=n*(s=Math.tan(i)),l=Math.tan(Math.abs(r)<Math.abs(i+1/s)?.5*h(v):.5*u(v)+ba/4)/Math.sin(i);return[a?2*Math.atan(a*l)/a:2*l,i]},n}function Kn(t,n){var a,r=Math.min(18,36*Math.abs(n)/ba),e=Math.floor(r),o=r-e,i=(a=Ya[e])[0],h=a[1],u=(a=Ya[++e])[0],M=a[1],s=(a=Ya[Math.min(19,++e)])[0],c=a[1];return[t*(u+o*(s-i)/2+o*o*(s-2*u+i)/2),(n>0?pa:-pa)*(M+o*(c-h)/2+o*o*(c-2*M+h)/2)]}function Nn(t){function n(n,a){var r=Math.cos(a),e=(t-1)/(t-r*Math.cos(n));return[e*r*Math.sin(n),e*Math.sin(a)]}return n.invert=function(n,a){var r=n*n+a*a,e=Math.sqrt(r),o=(t-Math.sqrt(1-r*(t+1)/(t-1)))/((t-1)/e+e/(t-1));return[Math.atan2(n*o,e*Math.sqrt(1-o*o)),e?h(a*o/e):0]},n}function Un(t,n){function a(n,a){var i=r(n,a),h=i[1],u=h*o/(t-1)+e;return[i[0]*e/u,h/u]}var r=Nn(t);if(!n)return r;var e=Math.cos(n),o=Math.sin(n);return a.invert=function(n,a){var i=(t-1)/(t-1-a*o);return r.invert(i*n,i*a*e)},a}function Vn(){var t=1.4,n=0,a=Sa(Un),r=a(t,n);return r.distance=function(r){return arguments.length?a(t=+r,n):t},r.tilt=function(r){return arguments.length?a(t,n=r*ba/180):180*n/ba},r}function Wn(t,n){var a=Math.tan(n/2),r=Math.sin(ba/4*a);return[t*(.74482-.34588*r*r),1.70711*a]}function Xn(t){function n(n,o){var i=u(Math.cos(o)*Math.cos(n-a)),h=u(Math.cos(o)*Math.cos(n-r)),s=0>o?-1:1;return i*=i,h*=h,[(i-h)/(2*t),s*M(4*e*h-(e-i+h)*(e-i+h))/(2*t)]}if(!t)return d3.geo.azimuthalEquidistant.raw;var a=-t/2,r=-a,e=t*t,o=Math.tan(r),i=.5/Math.sin(r);return n.invert=function(t,n){var e,h,M=n*n,s=Math.cos(Math.sqrt(M+(e=t+a)*e)),c=Math.cos(Math.sqrt(M+(e=t+r)*e));return[Math.atan2(h=s-c,e=(s+c)*o),(0>n?-1:1)*u(Math.sqrt(e*e+h*h)*i)]},n}function Yn(){var t=[[0,0],[0,0]],n=Sa(Xn),a=n(0),r=a.rotate;return delete a.rotate,a.points=function(a){if(!arguments.length)return t;t=a;var e=d3.geo.interpolate(a[0],a[1]),o=e(.5),i=d3.geo.rotation([-o[0],-o[1]])(a[0]),u=.5*e.distance,M=-h(Math.sin(i[1]*qa)/Math.sin(u));return i[0]>0&&(M=ba-M),r.call(i,[-o[0],-o[1],-M*ma]),n(2*u)},a}function Zn(t){function n(t,n){var r=d3.geo.gnomonic.raw(t,n);return r[0]*=a,r}var a=Math.cos(t);return n.invert=function(t,n){return d3.geo.gnomonic.raw.invert(t/a,n)},n}function $n(){var t=[[0,0],[0,0]],n=Sa(Zn),a=n(0),r=a.rotate;return delete a.rotate,a.points=function(a){if(!arguments.length)return t;t=a;var e=d3.geo.interpolate(a[0],a[1]),o=e(.5),i=d3.geo.rotation([-o[0],-o[1]])(a[0]),u=.5*e.distance,M=-h(Math.sin(i[1]*qa)/Math.sin(u));return i[0]>0&&(M=ba-M),r.call(i,[-o[0],-o[1],-M*ma]),n(u)},a}function ta(t,n){if(Math.abs(n)<ga)return[t,0];var a=Math.abs(n/pa),r=h(a);if(Math.abs(t)<ga||Math.abs(Math.abs(n)-pa)<ga)return[0,i(n)*ba*Math.tan(r/2)];var e=Math.cos(r),o=Math.abs(ba/t-t/ba)/2,u=o*o,M=e/(a+e-1),s=M*(2/a-1),c=s*s,f=c+u,v=M-c,l=u+M;return[i(t)*ba*(o*v+Math.sqrt(u*v*v-f*(M*M-c)))/f,i(n)*ba*(s*l-o*Math.sqrt((u+1)*f-l*l))/f]}function na(t,n){if(Math.abs(n)<ga)return[t,0];var a=Math.abs(n/pa),r=h(a);if(Math.abs(t)<ga||Math.abs(Math.abs(n)-pa)<ga)return[0,i(n)*ba*Math.tan(r/2)];var e=Math.cos(r),o=Math.abs(ba/t-t/ba)/2,u=o*o,s=e*(Math.sqrt(1+u)-o*e)/(1+u*a*a);return[i(t)*ba*s,i(n)*ba*M(1-s*(2*o+s))]}function aa(t,n){if(Math.abs(n)<ga)return[t,0];var a=n/pa,r=h(a);if(Math.abs(t)<ga||Math.abs(Math.abs(n)-pa)<ga)return[0,ba*Math.tan(r/2)];var e=(ba/t-t/ba)/2,o=a/(1+Math.cos(r));return[ba*(i(t)*M(e*e+1-o*o)-e),ba*o]}function ra(t,n){if(!n)return[t,0];var a=Math.abs(n);if(!t||a===pa)return[0,n];var r=a/pa,e=r*r,o=(8*r-e*(e+2)-5)/(2*e*(r-1)),h=o*o,u=r*o,s=e+h+2*u,c=r+3*o,f=t/pa,v=f+1/f,l=i(Math.abs(t)-pa)*Math.sqrt(v*v-4),g=l*l,d=s*(e+h*g-1)+(1-e)*(e*(c*c+4*h)+12*u*h+4*h*h),b=(l*(s+h-1)+2*M(d))/(4*s+g);return[i(t)*pa*b,i(n)*pa*M(1+l*Math.abs(b)-b*b)]}function ea(t,n){return[t*Math.sqrt(1-3*n*n/(ba*ba)),n]}function oa(t,n){var a=.90631*Math.sin(n),r=Math.sqrt(1-a*a),e=Math.sqrt(2/(1+r*Math.cos(t/=3)));return[2.66723*r*e*Math.sin(t),1.24104*a*e]}function ia(t,n){var a=Math.cos(n),r=Math.cos(t)*a,e=1-r,o=Math.cos(t=Math.atan2(Math.sin(t)*a,-Math.sin(n))),i=Math.sin(t);return a=M(1-r*r),[i*a-o*e,-o*a-i*e]}function ha(t,n){var a=f(t,n);return[(a[0]+t/pa)/2,(a[1]+n)/2]}d3.geo.project=function(t,a){var r=a.stream;if(!r)throw new Error("not yet supported");return(t&&ua.hasOwnProperty(t.type)?ua[t.type]:n)(t,r)};var ua={Feature:t,FeatureCollection:function(n,a){return{type:"FeatureCollection",features:n.features.map(function(n){return t(n,a)})}}},Ma=[],sa=[],ca={point:function(t,n){Ma.push([t,n])},result:function(){var t=Ma.length?Ma.length<2?{type:"Point",coordinates:Ma[0]}:{type:"MultiPoint",coordinates:Ma}:null;return Ma=[],t}},fa={lineStart:a,point:function(t,n){Ma.push([t,n])},lineEnd:function(){Ma.length&&(sa.push(Ma),Ma=[])},result:function(){var t=sa.length?sa.length<2?{type:"LineString",coordinates:sa[0]}:{type:"MultiLineString",coordinates:sa}:null;return sa=[],t}},va={polygonStart:a,lineStart:a,point:function(t,n){Ma.push([t,n])},lineEnd:function(){var t=Ma.length;if(t){do Ma.push(Ma[0].slice());while(++t<4);sa.push(Ma),Ma=[]}},polygonEnd:a,result:function(){if(!sa.length)return null;var t=[],n=[];return sa.forEach(function(a){r(a)?t.push([a]):n.push(a)}),n.forEach(function(n){var a=n[0];t.some(function(t){return e(t[0],a)?(t.push(n),!0):void 0})||t.push([n])}),sa=[],t.length?t.length>1?{type:"MultiPolygon",coordinates:t}:{type:"Polygon",coordinates:t[0]}:null}},la={Point:ca,MultiPoint:ca,LineString:fa,MultiLineString:fa,Polygon:va,MultiPolygon:va,Sphere:va},ga=1e-6,da=ga*ga,ba=Math.PI,pa=ba/2,wa=Math.sqrt(ba),qa=ba/180,ma=180/ba,ya=d3.geo.projection,Sa=d3.geo.projectionMutator;d3.geo.interrupt=function(t){function n(n,a){for(var r=0>a?-1:1,e=h[+(0>a)],o=0,i=e.length-1;i>o&&n>e[o][2][0];++o);var u=t(n-e[o][1][0],a);return u[0]+=t(e[o][1][0],r*a>r*e[o][0][1]?e[o][0][1]:a)[0],u}function a(){i=h.map(function(n){return n.map(function(n){var a,r=t(n[0][0],n[0][1])[0],e=t(n[2][0],n[2][1])[0],o=t(n[1][0],n[0][1])[1],i=t(n[1][0],n[1][1])[1];return o>i&&(a=o,o=i,i=a),[[r,o],[e,i]]})})}function r(){for(var t=1e-6,n=[],a=0,r=h[0].length;r>a;++a){var o=h[0][a],i=180*o[0][0]/ba,u=180*o[0][1]/ba,M=180*o[1][1]/ba,s=180*o[2][0]/ba,c=180*o[2][1]/ba;n.push(e([[i+t,u+t],[i+t,M-t],[s-t,M-t],[s-t,c+t]],30))}for(var a=h[1].length-1;a>=0;--a){var o=h[1][a],i=180*o[0][0]/ba,u=180*o[0][1]/ba,M=180*o[1][1]/ba,s=180*o[2][0]/ba,c=180*o[2][1]/ba;n.push(e([[s-t,c-t],[s-t,M+t],[i+t,M+t],[i+t,u-t]],30))}return{type:"Polygon",coordinates:[d3.merge(n)]}}function e(t,n){for(var a,r,e,o=-1,i=t.length,h=t[0],u=[];++o<i;){a=t[o],r=(a[0]-h[0])/n,e=(a[1]-h[1])/n;for(var M=0;n>M;++M)u.push([h[0]+M*r,h[1]+M*e]);h=a}return u.push(a),u}function o(t,n){return Math.abs(t[0]-n[0])<ga&&Math.abs(t[1]-n[1])<ga}var i,h=[[[[-ba,0],[0,pa],[ba,0]]],[[[-ba,0],[0,-pa],[ba,0]]]];t.invert&&(n.invert=function(a,r){for(var e=i[+(0>r)],u=h[+(0>r)],M=0,s=e.length;s>M;++M){var c=e[M];if(c[0][0]<=a&&a<c[1][0]&&c[0][1]<=r&&r<c[1][1]){var f=t.invert(a-t(u[M][1][0],0)[0],r);return f[0]+=u[M][1][0],o(n(f[0],f[1]),[a,r])?f:null}}});var u=d3.geo.projection(n),M=u.stream;return u.stream=function(t){var n=u.rotate(),a=M(t),e=(u.rotate([0,0]),M(t));return u.rotate(n),a.sphere=function(){d3.geo.stream(r(),e)},a},u.lobes=function(t){return arguments.length?(h=t.map(function(t){return t.map(function(t){return[[t[0][0]*ba/180,t[0][1]*ba/180],[t[1][0]*ba/180,t[1][1]*ba/180],[t[2][0]*ba/180,t[2][1]*ba/180]]})}),a(),u):h.map(function(t){return t.map(function(t){return[[180*t[0][0]/ba,180*t[0][1]/ba],[180*t[1][0]/ba,180*t[1][1]/ba],[180*t[2][0]/ba,180*t[2][1]/ba]]})})},u},(d3.geo.airy=c).raw=s,f.invert=function(t,n){if(!(t*t+4*n*n>ba*ba+ga)){var a=t,r=n,e=25;do{var o,i=Math.sin(a),h=Math.sin(a/2),M=Math.cos(a/2),s=Math.sin(r),c=Math.cos(r),f=Math.sin(2*r),v=s*s,l=c*c,g=h*h,d=1-l*M*M,b=d?u(c*M)*Math.sqrt(o=1/d):o=0,p=2*b*c*h-t,w=b*s-n,q=o*(l*g+b*c*M*v),m=o*(.5*i*f-2*b*s*h),y=.25*o*(f*h-b*s*l*i),S=o*(v*M+b*g*c),Q=m*y-S*q;if(!Q)break;var R=(w*m-p*S)/Q,T=(p*y-w*q)/Q;a-=R,r-=T}while((Math.abs(R)>ga||Math.abs(T)>ga)&&--e>0);return[a,r]}},(d3.geo.aitoff=function(){return ya(f)}).raw=f,(d3.geo.armadillo=l).raw=v,q.invert=function(t,n){if(t*=3/8,n*=3/8,!t&&Math.abs(n)>1)return null;var a=t*t,r=n*n,e=1+a+r,o=Math.sqrt(.5*(e-Math.sqrt(e*e-4*n*n))),u=h(o)/3,M=o?w(Math.abs(n/o))/3:p(Math.abs(t))/3,s=Math.cos(u),c=b(M),f=c*c-s*s;return[2*i(t)*Math.atan2(d(M)*s,.25-f),2*i(n)*Math.atan2(c*Math.sin(u),.25+f)]},(d3.geo.august=function(){return ya(q)}).raw=q;var Qa=Math.log(1+Math.SQRT2);m.invert=function(t,n){if((r=Math.abs(n))<Qa)return[t,2*Math.atan(Math.exp(n))-pa];var a,r,e=Math.sqrt(8),o=ba/4,h=25;do{var u=Math.cos(o/2),M=Math.tan(o/2);o-=a=(e*(o-ba/4)-Math.log(M)-r)/(e-.5*u*u/M)}while(Math.abs(a)>da&&--h>0);return[t/(Math.cos(o)*(e-1/Math.sin(o))),i(n)*o]},(d3.geo.baker=function(){return ya(m)
+}).raw=m;var Ra=d3.geo.azimuthalEquidistant.raw;(d3.geo.berghaus=S).raw=y;var Ta=Q(ba),xa=R(Math.SQRT2/pa,Math.SQRT2,ba);(d3.geo.mollweide=function(){return ya(xa)}).raw=xa,T.invert=function(t,n){var a,r,e=2.00276,o=e*n,i=0>n?-ba/4:ba/4,h=25;do r=o-Math.SQRT2*Math.sin(i),i-=a=(Math.sin(2*i)+2*i-ba*Math.sin(r))/(2*Math.cos(2*i)+2+ba*Math.cos(r)*Math.SQRT2*Math.cos(i));while(Math.abs(a)>ga&&--h>0);return r=o-Math.SQRT2*Math.sin(i),[t*(1/Math.cos(r)[phone redacted]/Math.cos(i))/e,r]},(d3.geo.boggs=function(){return ya(T)}).raw=T,E.invert=function(t,n){return[t/Math.cos(n),n]},(d3.geo.sinusoidal=function(){return ya(E)}).raw=E,(d3.geo.bonne=function(){return x(k).parallel(45)}).raw=k;var Ea=R(1,4/ba,ba);(d3.geo.bromley=function(){return ya(Ea)}).raw=Ea,(d3.geo.chamberlin=_).raw=P,G.invert=function(t,n){var a=(a=n/wa-1)*a;return[a>0?t*Math.sqrt(ba/a)/2:0,h(1-a)]},(d3.geo.collignon=function(){return ya(G)}).raw=G,(d3.geo.craig=function(){return x(j)}).raw=j,C.invert=function(t,n){var a=Math.sqrt(3),r=3*h(n/(a*wa));return[wa*t/(a*(2*Math.cos(2*r/3)-1)),r]},(d3.geo.craster=function(){return ya(C)}).raw=C,(d3.geo.cylindricalEqualArea=function(){return x(D)}).raw=D,(d3.geo.cylindricalStereographic=function(){return x(L)}).raw=L,O.invert=function(t,n){var a=Math.sqrt(8/(3*ba)),r=n/a;return[t/(a*(1-Math.abs(r)/ba)),r]},(d3.geo.eckert1=function(){return ya(O)}).raw=O,H.invert=function(t,n){var a=2-Math.abs(n)/Math.sqrt(2*ba/3);return[t*Math.sqrt(6*ba)/(2*a),i(n)*h((4-a*a)/3)]},(d3.geo.eckert2=function(){return ya(H)}).raw=H,I.invert=function(t,n){var a=Math.sqrt(ba*(4+ba))/2;return[t*a/(1+M(1-n*n*(4+ba)/(4*ba))),n*a/2]},(d3.geo.eckert3=function(){return ya(I)}).raw=I,J.invert=function(t,n){var a=.5*n*Math.sqrt((4+ba)/ba),r=h(a),e=Math.cos(r);return[t/(2/Math.sqrt(ba*(4+ba))*(1+e)),h((r+a*(e+2))/(2+pa))]},(d3.geo.eckert4=function(){return ya(J)}).raw=J,K.invert=function(t,n){var a=Math.sqrt(2+ba),r=n*a/2;return[a*t/(1+Math.cos(r)),r]},(d3.geo.eckert5=function(){return ya(K)}).raw=K,N.invert=function(t,n){var a=1+pa,r=Math.sqrt(a/2);return[2*t*r/(1+Math.cos(n*=r)),h((n+Math.sin(n))/a)]},(d3.geo.eckert6=function(){return ya(N)}).raw=N,U.invert=function(t,n){var a=d3.geo.august.raw.invert(t/1.2,1.065*n);if(!a)return null;var r=a[0],e=a[1],o=20;t/=ka,n/=ka;do{var i=r/2,h=e/2,u=Math.sin(i),M=Math.cos(i),s=Math.sin(h),c=Math.cos(h),f=Math.cos(e),v=Math.sqrt(f),l=s/(c+Math.SQRT2*M*v),g=l*l,d=Math.sqrt(2/(1+g)),b=Math.SQRT2*c+(M+u)*v,p=Math.SQRT2*c+(M-u)*v,w=b/p,q=Math.sqrt(w),m=q-1/q,y=q+1/q,S=d*m-2*Math.log(q)-t,Q=d*l*y-2*Math.atan(l)-n,R=s&&Math.SQRT1_2*v*u*g/s,T=(Math.SQRT2*M*c+v)/(2*(c+Math.SQRT2*M*v)*(c+Math.SQRT2*M*v)*v),x=-.5*l*d*d*d,E=x*R,k=x*T,P=(P=2*c+Math.SQRT2*v*(M-u))*P*q,_=(Math.SQRT2*M*c*v+f)/P,z=-(Math.SQRT2*u*s)/(v*P),B=m*E-2*_/q+d*(_+_/w),F=m*k-2*z/q+d*(z+z/w),A=l*y*E-2*R/(1+g)+d*y*R+d*l*(_-_/w),G=l*y*k-2*T/(1+g)+d*y*T+d*l*(z-z/w),j=F*A-G*B;if(!j)break;var C=(Q*F-S*G)/j,D=(S*A-Q*B)/j;r-=C,e=Math.max(-pa,Math.min(pa,e-D))}while((Math.abs(C)>ga||Math.abs(D)>ga)&&--o>0);return Math.abs(Math.abs(e)-pa)<ga?[0,e]:o&&[r,e]};var ka=3+2*Math.SQRT2;(d3.geo.eisenlohr=function(){return ya(U)}).raw=U,V.invert=function(t,n){var a=n/(1+Pa);return[t?t/(Pa*M(1-a*a)):0,2*Math.atan(a)]};var Pa=Math.cos(35*qa);(d3.geo.fahey=function(){return ya(V)}).raw=V,W.invert=function(t,n){var a=Math.atan(n/wa),r=Math.cos(a),e=2*a;return[.5*t*wa/(Math.cos(e)*r*r),e]},(d3.geo.foucaut=function(){return ya(W)}).raw=W,d3.geo.gilbert=function(t){function n(n){return t([.5*n[0],h(Math.tan(.5*n[1]*qa))*ma])}var a=d3.geo.equirectangular().scale(ma).translate([0,0]);return t.invert&&(n.invert=function(n){return n=t.invert(n),n[0]*=2,n[1]=2*Math.atan(Math.sin(n[1]*qa))*ma,n}),n.stream=function(n){n=t.stream(n);var r=a.stream({point:function(t,a){n.point(.5*t,h(Math.tan(.5*-a*qa))*ma)},lineStart:function(){n.lineStart()},lineEnd:function(){n.lineEnd()},polygonStart:function(){n.polygonStart()},polygonEnd:function(){n.polygonEnd()}});return r.sphere=function(){n.sphere()},r.valid=!1,r},n};var _a=d3.geo.azimuthalEquidistant.raw;(d3.geo.gingery=Z).raw=X;var za=tn(2.8284,-1.6988,.75432,-.18071,1.76003,-.38914,.042555);(d3.geo.ginzburg4=function(){return ya(za)}).raw=za;var Ba=tn(2.583819,-.835827,.170354,-.038094,1.543313,-.411435,.082742);(d3.geo.ginzburg5=function(){return ya(Ba)}).raw=Ba;var Fa=tn(5/6*ba,-.62636,-.0344,0,1.3493,-.05524,0,.045);(d3.geo.ginzburg6=function(){return ya(Fa)}).raw=Fa,nn.invert=function(t,n){var a,r=t,e=n,o=50;do{var i=e*e;e-=a=(e*(1+i/12)-n)/(1+i/4)}while(Math.abs(a)>ga&&--o>0);o=50,t/=1-.162388*i;do{var h=(h=r*r)*h;r-=a=(r*(.87-952426e-9*h)-t)/(.87-.00476213*h)}while(Math.abs(a)>ga&&--o>0);return[r,e]},(d3.geo.ginzburg8=function(){return ya(nn)}).raw=nn;var Aa=tn(2.6516,-.76534,.19123,-.047094,1.36289,-.13965,.031762);(d3.geo.ginzburg9=function(){return ya(Aa)}).raw=Aa,rn.invert=function(t,n){var a=i(t),r=i(n),e=-a*t,o=-r*n,u=1>o/e,M=on(u?o:e,u?e:o),s=M[0],c=M[1];u&&(s=-pa-s);var f=Math.cos(c),t=Math.cos(s)*f,n=Math.sin(s)*f,v=Math.sin(c);return[a*(Math.atan2(n,-v)+ba),r*h(t)]},d3.geo.gringorten=an(rn),cn.invert=function(t,n){var a=(Math.SQRT2-1)/(Math.SQRT2+1),r=Math.sqrt(1-a*a),e=sn(pa,r*r),o=-1,i=hn(.5*e-n,-t,r*r),h=vn(i[0],i[1]),u=Math.atan2(h[1],h[0])/o;return[u,2*Math.atan(Math.exp(.5/o*Math.log(a*h[0]*h[0]+a*h[1]*h[1])))-pa]},d3.geo.guyou=an(cn),(d3.geo.hammerRetroazimuthal=dn).raw=ln;var Ga=d3.geo.azimuthalEqualArea.raw;wn.invert=function(t,n){var a=2*h(n/2);return[t*Math.cos(a/2)/Math.cos(a),a]},(d3.geo.hammer=pn).raw=bn,qn.invert=function(t,n){var a=Math.abs(a=n*(0>n?.5179951515653813:.5686373742600607))>1-ga?a>0?pa:-pa:h(a);return[1.1764705882352942*t/Math.cos(a),Math.abs(a=((a+=a)+Math.sin(a))*(0>n?.4102345310814193:.3736990601468637))>1-ga?a>0?pa:-pa:h(a)]},(d3.geo.hatano=function(){return ya(qn)}).raw=qn;var ja=41+48/36+37/3600;(d3.geo.healpix=yn).raw=mn,(d3.geo.hill=Qn).raw=Sn;var Ca=.7109889596207567,Da=.0528035274542;Rn.invert=function(t,n){return n>-Ca?xa.invert(t,n-Da):E.invert(t,n)},(d3.geo.sinuMollweide=function(){return ya(Rn).rotate([-20,-55])}).raw=Rn,Tn.invert=function(t,n){return Math.abs(n)>Ca?xa.invert(t,n+(n>0?Da:-Da)):E.invert(t,n)},(d3.geo.homolosine=function(){return ya(Tn)}).raw=Tn,xn.invert=function(t,n){return[2/3*ba*t/Math.sqrt(ba*ba/3-n*n),n]},(d3.geo.kavrayskiy7=function(){return ya(xn)}).raw=xn,(d3.geo.lagrange=kn).raw=En,Pn.invert=function(t,n){var a=Math.abs(t),r=Math.abs(n),e=ba/Math.SQRT2,o=ga,i=pa;e>r?i*=r/e:o+=6*u(e/r);for(var h=0;25>h;h++){var s=Math.sin(i),c=M(Math.cos(i)),f=Math.sin(i/2),v=Math.cos(i/2),l=Math.sin(o/6),g=Math.cos(o/6),d=.5*o*(1+c)-a,b=i/(v*g)-r,p=c?-.25*o*s/c:0,w=.5*(1+c),q=(1+.5*i*f/v)/(v*g),m=i/v*(l/6)/(g*g),y=p*m-q*w,S=(d*m-b*w)/y,Q=(b*p-d*q)/y;if(i-=S,o-=Q,Math.abs(S)<ga&&Math.abs(Q)<ga)break}return[0>t?-o:o,0>n?-i:i]},(d3.geo.larrivee=function(){return ya(Pn)}).raw=Pn,_n.invert=function(t,n){var a=i(t)*ba,r=n/2,e=50;do{var o=a*a,h=r*r,u=a*r,M=a*(.975534+h*(-.119161+o*-.0143059+h*-.0547009))-t,s=r*(1.00384+o*(.0802894+h*-.02855+199025e-9*o)+h*(.0998909+h*-.0491032))-n,c=.975534-h*(.119161+.0143059*3*o+.0547009*h),f=-u*(.238322+.2188036*h+.0286118*o),v=u*(.1605788+7961e-7*o+-0.0571*h),l=1.00384+o*(.0802894+199025e-9*o)+h*(3*(.0998909-.02855*o)-.245516*h),g=f*v-l*c,d=(s*f-M*l)/g,b=(M*v-s*c)/g;a-=d,r-=b}while((Math.abs(d)>ga||Math.abs(b)>ga)&&--e>0);return e&&[a,r]},(d3.geo.laskowski=function(){return ya(_n)}).raw=_n,zn.invert=function(t,n){var a=t*t,r=n*n,e=r+1,o=t?Math.SQRT1_2*Math.sqrt((e-Math.sqrt(a*a+2*a*(r-1)+e*e))/a+1):1/Math.sqrt(e);return[h(t*o),i(n)*u(o)]},(d3.geo.littrow=function(){return ya(zn)}).raw=zn,(d3.geo.loximuthal=function(){return x(Bn).parallel(40)}).raw=Bn,Fn.invert=function(t,n){return[t,2.5*Math.atan(Math.exp(.8*n))-.625*ba]},(d3.geo.miller=function(){return ya(Fn)}).raw=Fn;var La={alaska:[[.9972523,0],[.0052513,-.0041175],[.0074606,.0048125],[-.0153783,-.1968253],[.0636871,-.1408027],[.3660976,-.2937382]],gs48:[[.98879,0],[0,0],[-.050909,0],[0,0],[.075528,0]],gs50:[[.984299,0],[.0211642,.0037608],[-.1036018,-.0575102],[-.0329095,-.0320119],[.0499471,.1223335],[.026046,.0899805],[7388e-7,-.1435792],[.0075848,-.1334108],[-.0216473,.0776645],[-.0225161,.0853673]],miller:[[.9245,0],[0,0],[.01943,0]],lee:[[.721316,0],[0,0],[-.00881625,-.00617325]]};(d3.geo.modifiedStereographic=Gn).raw=An,jn.invert=function(t,n){var a=Math.sqrt(6),r=Math.sqrt(7),e=3*h(n*r/9);return[t*r/(a*(2*Math.cos(2*e/3)-1)),h(3*Math.sin(e)*a/7)]},(d3.geo.mtFlatPolarParabolic=function(){return ya(jn)}).raw=jn,Cn.invert=function(t,n){var a=n*Math.sqrt(2+Math.SQRT2)/(2*Math.sqrt(3)),r=2*h(a);return[3*Math.SQRT2*t/(1+2*Math.cos(r)/Math.cos(r/2)),h((a+Math.sin(r))/(1+Math.SQRT1_2))]},(d3.geo.mtFlatPolarQuartic=function(){return ya(Cn)}).raw=Cn,Dn.invert=function(t,n){var a=Math.sqrt(6/(4+ba)),r=n/a;return Math.abs(Math.abs(r)-pa)<ga&&(r=0>r?-pa:pa),[1.5*t/(a*(.5+Math.cos(r))),h((r/2+Math.sin(r))/(1+ba/4))]},(d3.geo.mtFlatPolarSinusoidal=function(){return ya(Dn)}).raw=Dn,Ln.invert=function(t,n){var a,r=n,e=25;do{var o=r*r,i=o*o;r-=a=(r*(1.007226+o*(.015085+i*(-.044475+.028874*o-.005916*i)))-n)/(1.007226+o*(.045255+i*(-0.311325+.259866*o-.005916*11*i)))}while(Math.abs(a)>ga&&--e>0);return[t/(.8707+(o=r*r)*(-.131979+o*(-.013791+o*o*o*(.003971-.001529*o)))),r]},(d3.geo.naturalEarth=function(){return ya(Ln)}).raw=Ln,On.invert=function(t,n){for(var a=n/2,r=0,e=1/0;10>r&&Math.abs(e)>ga;r++){var o=Math.cos(n/2);n-=e=(n-Math.tan(n/2)-a)/(1-.5/(o*o))}return[2*t/(1+Math.cos(n)),n]},(d3.geo.nellHammer=function(){return ya(On)}).raw=On;var Oa=1.0148,Ha=.23185,Ia=-.14499,Ja=.02406,Ka=Oa,Na=5*Ha,Ua=7*Ia,Va=9*Ja,Wa=1.790857183;Hn.invert=function(t,n){n>Wa?n=Wa:-Wa>n&&(n=-Wa);var a,r=n;do{var e=r*r;r-=a=(r*(Oa+e*e*(Ha+e*(Ia+Ja*e)))-n)/(Ka+e*e*(Na+e*(Ua+Va*e)))}while(Math.abs(a)>ga);return[t,r]},(d3.geo.patterson=function(){return ya(Hn)}).raw=Hn;var Xa=an(cn);(d3.geo.peirceQuincuncial=function(){return Xa().quincuncial(!0).rotate([-90,-90,45]).clipAngle(180-1e-6)}).raw=Xa.raw,In.invert=function(t,n){if(Math.abs(n)<ga)return[t,0];var a,r=t*t+n*n,e=.5*n,o=10;do{var M=Math.tan(e),s=1/Math.cos(e),c=r-2*n*e+e*e;e-=a=(M*c+2*(e-n))/(2+c*s*s+2*(e-n)*M)}while(Math.abs(a)>ga&&--o>0);return M=Math.tan(e),[(Math.abs(n)<Math.abs(e+1/M)?h(t*M):i(t)*(u(Math.abs(t*M))+pa))/Math.sin(e),e]},(d3.geo.polyconic=function(){return ya(In)}).raw=In,(d3.geo.rectangularPolyconic=function(){return x(Jn)}).raw=Jn;var Ya=[[.9986,-.062],[1,0],[.9986,.062],[.9954,.124],[.99,.186],[.9822,.248],[.973,.31],[.96,.372],[.9427,.434],[.9216,.4958],[.8962,.5571],[.8679,.6176],[.835,.6769],[.7986,.7346],[.7597,.7903],[.7186,.8435],[.6732,.8936],[.6213,.9394],[.5722,.9761],[.5322,1]];Ya.forEach(function(t){t[1]*=1.0144}),Kn.invert=function(t,n){var a=n/pa,r=90*a,e=Math.min(18,Math.abs(r/5)),o=Math.max(0,Math.floor(e));do{var i=Ya[o][1],h=Ya[o+1][1],u=Ya[Math.min(19,o+2)][1],M=u-i,s=u-2*h+i,c=2*(Math.abs(a)-h)/M,f=s/M,v=c*(1-f*c*(1-2*f*c));if(v>=0||1===o){r=(n>=0?5:-5)*(v+e);var l,g=50;do e=Math.min(18,Math.abs(r)/5),o=Math.floor(e),v=e-o,i=Ya[o][1],h=Ya[o+1][1],u=Ya[Math.min(19,o+2)][1],r-=(l=(n>=0?pa:-pa)*(h+v*(u-i)/2+v*v*(u-2*h+i)/2)-n)*ma;while(Math.abs(l)>da&&--g>0);break}}while(--o>=0);var d=Ya[o][0],b=Ya[o+1][0],p=Ya[Math.min(19,o+2)][0];return[t/(b+v*(p-d)/2+v*v*(p-2*b+d)/2),r*qa]},(d3.geo.robinson=function(){return ya(Kn)}).raw=Kn,(d3.geo.satellite=Vn).raw=Un,Wn.invert=function(t,n){var a=n/1.70711,r=Math.sin(ba/4*a);return[t/(.74482-.34588*r*r),2*Math.atan(a)]},(d3.geo.times=function(){return ya(Wn)}).raw=Wn,(d3.geo.twoPointEquidistant=Yn).raw=Xn,(d3.geo.twoPointAzimuthal=$n).raw=Zn,ta.invert=function(t,n){if(Math.abs(n)<ga)return[t,0];if(Math.abs(t)<ga)return[0,pa*Math.sin(2*Math.atan(n/ba))];var a=(t/=ba)*t,r=(n/=ba)*n,e=a+r,o=e*e,h=-Math.abs(n)*(1+e),M=h-2*r+a,s=-2*h+1+2*r+o,c=r/s+(2*M*M*M/(s*s*s)-9*h*M/(s*s))/27,f=(h-M*M/(3*s))/s,v=2*Math.sqrt(-f/3),l=u(3*c/(f*v))/3;return[ba*(e-1+Math.sqrt(1+2*(a-r)+o))/(2*t),i(n)*ba*(-v*Math.cos(l+ba/3)-M/(3*s))]},(d3.geo.vanDerGrinten=function(){return ya(ta)}).raw=ta,na.invert=function(t,n){if(!t)return[0,pa*Math.sin(2*Math.atan(n/ba))];var a=Math.abs(t/ba),r=(1-a*a-(n/=ba)*n)/(2*a),e=r*r,o=Math.sqrt(e+1);return[i(t)*ba*(o-r),i(n)*pa*Math.sin(2*Math.atan2(Math.sqrt((1-2*r*a)*(r+o)-a),Math.sqrt(o+r+a)))]},(d3.geo.vanDerGrinten2=function(){return ya(na)}).raw=na,aa.invert=function(t,n){if(!n)return[t,0];var a=n/ba,r=(ba*ba*(1-a*a)-t*t)/(2*ba*t);return[t?ba*(i(t)*Math.sqrt(r*r+1)-r):0,pa*Math.sin(2*Math.atan(a))]},(d3.geo.vanDerGrinten3=function(){return ya(aa)}).raw=aa,ra.invert=function(t,n){if(!t||!n)return[t,n];n/=ba;var a=i(t)*t/pa,r=(a*a-1+4*n*n)/Math.abs(a),e=r*r,o=2*n,h=50;do{var u=o*o,M=(8*o-u*(u+2)-5)/(2*u*(o-1)),s=(3*o-u*o-10)/(2*u*o),c=M*M,f=o*M,v=o+M,l=v*v,g=o+3*M,d=l*(u+c*e-1)+(1-u)*(u*(g*g+4*c)+c*(12*f+4*c)),b=-2*v*(4*f*c+(1-4*u+3*u*u)*(1+s)+c*(-6+14*u-e+(-8+8*u-2*e)*s)+f*(-8+12*u+(-10+10*u-e)*s)),p=Math.sqrt(d),w=r*(l+c-1)+2*p-a*(4*l+e),q=r*(2*M*s+2*v*(1+s))+b/p-8*v*(r*(-1+c+l)+2*p)*(1+s)/(e+4*l);o-=δ=w/q}while(δ>ga&&--h>0);return[i(t)*(Math.sqrt(r*r+4)+r)*ba/4,pa*o]},(d3.geo.vanDerGrinten4=function(){return ya(ra)}).raw=ra;var Za=function(){var t=4*ba+3*Math.sqrt(3),n=2*Math.sqrt(2*ba*Math.sqrt(3)/t);return R(n*Math.sqrt(3)/ba,n,t/6)}();(d3.geo.wagner4=function(){return ya(Za)}).raw=Za,ea.invert=function(t,n){return[t/Math.sqrt(1-3*n*n/(ba*ba)),n]},(d3.geo.wagner6=function(){return ya(ea)}).raw=ea,oa.invert=function(t,n){var a=t/2.66723,r=n/1.24104,e=Math.sqrt(a*a+r*r),o=2*h(e/2);return[3*Math.atan2(t*Math.tan(o),2.66723*e),e&&h(n*Math.sin(o)/(1.24104*.90631*e))]},(d3.geo.wagner7=function(){return ya(oa)}).raw=oa,ia.invert=function(t,n){var a=-.5*(t*t+n*n),r=Math.sqrt(-a*(2+a)),e=n*a+t*r,o=t*a-n*r,i=Math.sqrt(o*o+e*e);return[Math.atan2(r*e,i*(1+a)),i?-h(r*o/i):0]},(d3.geo.wiechel=function(){return ya(ia)}).raw=ia,ha.invert=function(t,n){var a=t,r=n,e=25;do{var o,i=Math.cos(r),h=Math.sin(r),M=Math.sin(2*r),s=h*h,c=i*i,f=Math.sin(a),v=Math.cos(a/2),l=Math.sin(a/2),g=l*l,d=1-c*v*v,b=d?u(i*v)*Math.sqrt(o=1/d):o=0,p=.5*(2*b*i*l+a/pa)-t,w=.5*(b*h+r)-n,q=.5*o*(c*g+b*i*v*s)+.5/pa,m=o*(f*M/4-b*h*l),y=.125*o*(M*l-b*h*c*f),S=.5*o*(s*v+b*g*i)+.5,Q=m*y-S*q,R=(w*m-p*S)/Q,T=(p*y-w*q)/Q;a-=R,r-=T}while((Math.abs(R)>ga||Math.abs(T)>ga)&&--e>0);return[a,r]},(d3.geo.winkel3=function(){return ya(ha)}).raw=ha}();